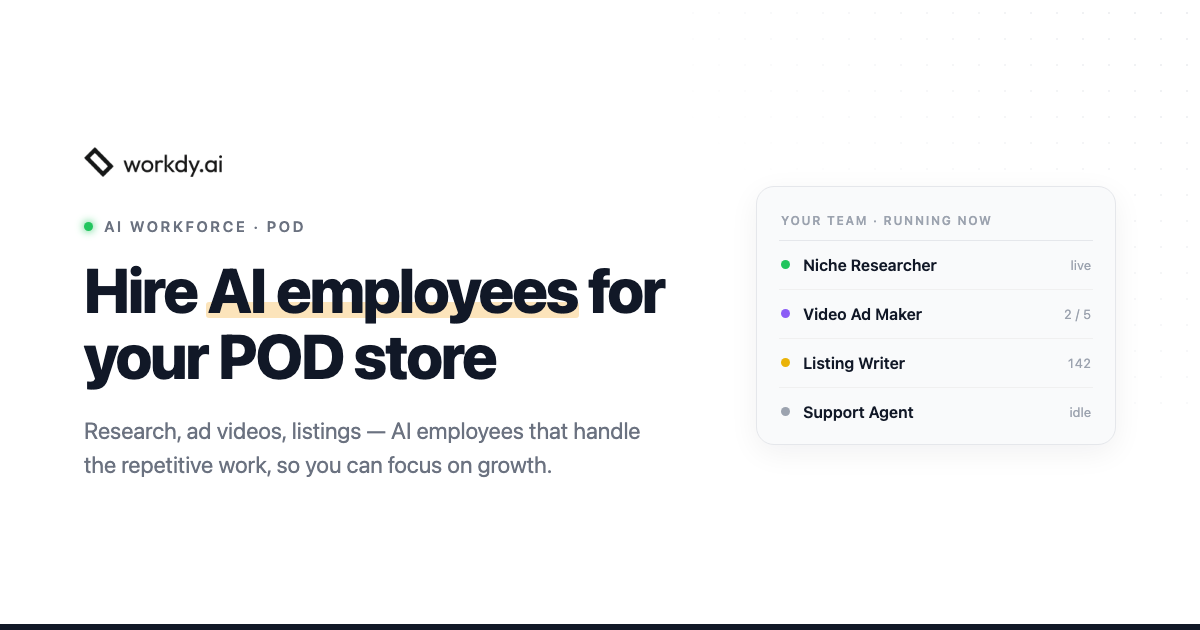
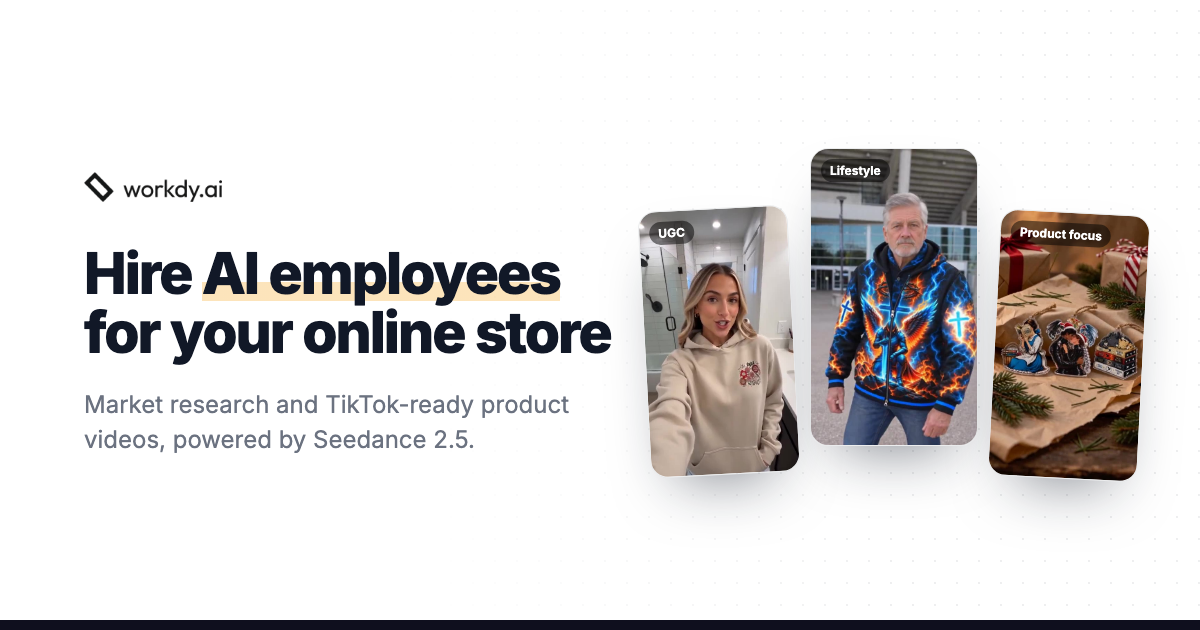
fix(landing): review pass — real OG image, honest claims, mobile hero, a11y, console noise
- Re-render og.png: old one still said "Hire AI employees for your POD store"
- Replace "Run and optimize ads" (no such template/job) with the real creative-scorecard pipeline
- Swap the fake ticking "videos drafted today" counter for a spec chip
- Chat demo: drop the contradictory "Lark coming soon" chip, rename to Workdy Agent
- Remove eyebrow pill tags and the "Made with" badge; drop SectionHeading eyebrow prop
- Hero: typed word ends its own line so no gap on mobile; "See the pipelines" CTA
- State the calculator assumption; mobile-friendly Seedance model cards
- Duplicate marquee cards out of tab order; nav button never wraps
- Fix <circle> cx/cy "undefined" console spam by animating x/y instead of cx/cy

Changed region(s): [[0.0617, 0.2111, 0.9558, 0.8143], [0.0, 0.9651, 1.0, 0.9952]]

diff --git a/src/components/sections/HeroVisual.tsx b/src/components/sections/HeroVisual.tsx
@@ -2,7 +2,7 @@
 
 import { useEffect, useState } from "react";
 import { motion, AnimatePresence, useReducedMotion } from "framer-motion";
-import { ImageIcon, Sparkles, Play, TrendingUp } from "lucide-react";
+import { ImageIcon, Sparkles, Play } from "lucide-react";
 
 const EASE = [0.16, 1, 0.3, 1] as const;
 
@@ -103,7 +103,7 @@ export function HeroVisual() {
           <span className="size-2.5 rounded-full bg-dot-processing/70" />
           <span className="size-2.5 rounded-full bg-dot-ready/70" />
           <span className="ml-3 rounded-md bg-base px-2.5 py-1 font-mono text-[10.5px] tracking-wide text-ink-faint ring-1 ring-line">
-            workdy · pod-sales-video.flow
+            workdy · product-video.flow
           </span>
           <span className="ml-auto hidden items-center gap-1.5 rounded-md bg-dot-ready/10 px-2 py-1 text-[10.5px] font-semibold text-green-600 sm:inline-flex">
             <span className="size-1.5 rounded-full bg-dot-ready" />
@@ -156,10 +156,12 @@ export function HeroVisual() {
             {/* traveling packet — node 1 to node 2 */}
             {!reduce && travelingA ? (
               <motion.circle
+                cx={200}
+                cy={100}
                 r={5}
                 fill="var(--color-dot-ready)"
                 initial={{ opacity: 0 }}
-                animate={{ cx: [200, 225], cy: [100, 100], opacity: [0, 1, 1, 0] }}
+                animate={{ x: [0, 25], opacity: [0, 1, 1, 0] }}
                 transition={{ duration: 0.7, ease: "easeInOut" }}
               />
             ) : null}
@@ -167,12 +169,14 @@ export function HeroVisual() {
             {/* traveling packet — node 2 down and across to the video output */}
             {!reduce && travelingB ? (
               <motion.circle
+                cx={310}
+                cy={136}
                 r={5}
                 fill="var(--color-dot-ready)"
                 initial={{ opacity: 0 }}
                 animate={{
-                  cx: [310, 310, 355],
-                  cy: [136, 270, 270],
+                  x: [0, 0, 0, 45, 45],
+                  y: [0, 0, 134, 134, 134],
                   opacity: [0, 1, 1, 1, 0],
                 }}
                 transition={{ duration: 0.9, ease: "easeInOut", times: [0, 0.05, 0.55, 0.9, 1] }}
@@ -339,7 +343,7 @@ export function HeroVisual() {
             transition={{ duration: 0.6, ease: EASE }}
           />
 
-          {/* output node — rendered POD sales video */}
+          {/* output node — rendered product video */}
           <motion.div
             initial={reduce ? { opacity: 0 } : { opacity: 0, y: 8, scale: 0.94 }}
             animate={reduce ? { opacity: 1, y: 0, scale: 1 } : { opacity: 1, y: 0, scale: 1 }}
@@ -517,13 +521,13 @@ export function HeroVisual() {
         className="animate-float-slow absolute -top-5 -right-3 flex items-center gap-2 rounded-xl border border-line bg-base/95 px-3 py-2 shadow-[0_16px_40px_-18px_rgba(17,24,39,0.4)] backdrop-blur sm:-right-6"
       >
         <span className="flex size-7 items-center justify-center rounded-lg bg-cat-green/10 text-green-600">
-          <TrendingUp size={15} strokeWidth={2.2} />
+          <Play size={13} strokeWidth={2.4} fill="currentColor" />
         </span>
         <div className="leading-tight">
           <div className="text-[13px] font-bold tabular text-ink">
-            <LiveCount />
+            9:16 · 15s
           </div>
-          <div className="text-[9.5px] text-ink-faint">videos drafted today</div>
+          <div className="text-[9.5px] text-ink-faint">TikTok-ready video</div>
         </div>
       </motion.div>
     </div>
@@ -550,17 +554,4 @@ function FloatingRoster() {
       ))}
     </div>
   );
-}
-
-function LiveCount() {
-  const [n, setN] = useState(142);
-  const reduce = useReducedMotion();
-
-  useEffect(() => {
-    if (reduce) return;
-    const id = setInterval(() => setN((v) => v + 1 + Math.floor(Math.random() * 2)), 3200);
-    return () => clearInterval(id);
-  }, [reduce]);
-
-  return <>{n}</>;
 }

diff --git a/src/components/sections/SeedanceShowcase.tsx b/src/components/sections/SeedanceShowcase.tsx
@@ -47,11 +47,7 @@ export function SeedanceShowcase() {
 
       <div className="relative mx-auto max-w-6xl px-6 pt-20 sm:px-8 sm:pt-24">
         <Reveal className="mx-auto max-w-2xl text-center">
-          <span className="inline-flex items-center gap-2 rounded-full border border-white/15 bg-white/5 px-3 py-1.5 text-[11px] font-semibold tracking-wide text-white/75 uppercase backdrop-blur">
-            <span className="size-1.5 rounded-full bg-cat-purple" />
-            Made with Workdy × Seedance
-          </span>
-          <h2 className="mt-5 text-[clamp(1.9rem,4.4vw,2.9rem)] leading-[1.08] font-bold tracking-tight text-balance">
+          <h2 className="text-[clamp(1.9rem,4.4vw,2.9rem)] leading-[1.08] font-bold tracking-tight text-balance">
             Product videos that look shot, not generated
           </h2>
           <p className="mx-auto mt-4 max-w-xl text-[15.5px] leading-relaxed text-pretty text-white/65">
@@ -81,6 +77,7 @@ export function SeedanceShowcase() {
               return (
                 <li key={key} className="snap-start" aria-hidden={index >= CLIPS.length ? true : undefined}>
                   <VideoCard
+                    focusable={index < CLIPS.length}
                     clip={clip}
                     autoPlay={!reduce}
                     withSound={soundKey === key}
@@ -94,19 +91,13 @@ export function SeedanceShowcase() {
       </Reveal>
 
       <div className="relative mx-auto max-w-6xl px-6 pt-14 pb-20 text-center sm:px-8 sm:pb-24">
-        <Reveal>
-          <p className="text-[13px] font-semibold tracking-wide text-white/45 uppercase">
-            Powered by the Seedance family
-          </p>
-        </Reveal>
-
-        <Stagger className="mx-auto mt-5 grid max-w-4xl grid-cols-2 gap-3 lg:grid-cols-4">
+        <Stagger className="mx-auto grid max-w-4xl grid-cols-2 gap-3 lg:grid-cols-4">
           {MODELS.map((model) => {
             const Icon = model.icon;
             return (
               <StaggerItem key={model.name}>
                 <div
-                  className={`flex h-full items-center gap-3 rounded-2xl border px-4 py-3.5 text-left transition-colors duration-200 hover:border-white/25 ${
+                  className={`flex h-full flex-col items-start gap-2.5 rounded-2xl border px-4 py-3.5 sm:flex-row sm:items-center sm:gap-3 text-left transition-colors duration-200 hover:border-white/25 ${
                     model.isNew
                       ? "border-cat-purple/45 bg-[linear-gradient(160deg,rgba(139,92,246,0.2),rgba(139,92,246,0.05))] shadow-[0_0_36px_-14px_rgba(139,92,246,0.7)]"
                       : "border-white/10 bg-dark-card"
@@ -148,9 +139,10 @@ type VideoCardProps = {
   autoPlay: boolean;
   withSound: boolean;
   onToggleSound: () => void;
+  focusable: boolean;
 };
 
-function VideoCard({ clip, autoPlay, withSound, onToggleSound }: VideoCardProps) {
+function VideoCard({ clip, autoPlay, withSound, onToggleSound, focusable }: VideoCardProps) {
   const ref = useRef<HTMLVideoElement>(null);
   const [near, setNear] = useState(false);
   const [visible, setVisible] = useState(false);
@@ -183,6 +175,7 @@ function VideoCard({ clip, autoPlay, withSound, onToggleSound }: VideoCardProps)
   return (
     <button
       type="button"
+      tabIndex={focusable ? undefined : -1}
       onClick={onToggleSound}
       aria-label={`${clip.product} — ${withSound ? "mute" : "play with sound"}`}
       className={`group relative block aspect-[9/16] w-[168px] overflow-hidden rounded-2xl bg-dark-card text-left ring-1 transition-[transform,box-shadow] duration-300 hover:-translate-y-1 sm:w-[212px] ${

diff --git a/src/components/sections/Hero.tsx b/src/components/sections/Hero.tsx
@@ -19,20 +19,13 @@ export function Hero() {
 
       <div className="mx-auto grid max-w-6xl items-center gap-12 px-6 py-16 sm:px-8 lg:grid-cols-[1.05fr_0.95fr] lg:py-24">
         <div>
-          <span className="animate-fade-in inline-flex items-center gap-2 rounded-full border border-line bg-base/70 px-3 py-1.5 text-xs font-semibold tracking-wide text-ink-soft uppercase backdrop-blur">
-            <span className="relative flex size-1.5">
-              <span className="absolute inline-flex size-full animate-[pulse-ring_1.8s_ease-out_infinite] rounded-full bg-dot-ready" />
-              <span className="relative inline-flex size-1.5 rounded-full bg-dot-ready" />
-            </span>
-            AI workforce · E-commerce
-          </span>
-
           <h1
-            className="animate-fade-in mt-5 text-[clamp(2.25rem,5.2vw,3.75rem)] leading-[1.05] font-bold tracking-tight text-balance text-ink"
+            className="animate-fade-in text-[clamp(2rem,5.2vw,3.75rem)] leading-[1.05] font-bold tracking-tight text-balance text-ink"
             style={{ animationDelay: "0.08s" }}
           >
             Hire AI{" "}
-            <TypingWord words={["employees", "researchers", "creators", "marketers", "editors"]} />{" "}
+            <TypingWord words={["employees", "researchers", "creators", "marketers", "editors"]} />
+            <br />
             for your online store
           </h1>
 
@@ -54,7 +47,7 @@ export function Hero() {
             </Button>
             <Button href="#pipelines" variant="secondary">
               <PlayCircle size={17} strokeWidth={2} />
-              See a real workflow run
+              See the pipelines
             </Button>
           </div>
 

diff --git a/src/components/sections/ChatDemo.tsx b/src/components/sections/ChatDemo.tsx
@@ -4,7 +4,7 @@ import { useEffect, useState } from "react";
 import Image from "next/image";
 import { motion, AnimatePresence, useReducedMotion } from "framer-motion";
 import { SiTelegram } from "react-icons/si";
-import { Send, Sparkles } from "lucide-react";
+import { Send } from "lucide-react";
 
 const EASE = [0.16, 1, 0.3, 1] as const;
 
@@ -57,7 +57,7 @@ export function ChatDemo() {
             <span className="absolute -right-0.5 -bottom-0.5 size-2.5 rounded-full border-2 border-base bg-dot-ready" />
           </span>
           <div className="min-w-0">
-            <div className="truncate text-[13.5px] font-bold text-ink">Support Agent</div>
+            <div className="truncate text-[13.5px] font-bold text-ink">Workdy Agent</div>
             <div className="text-[11px] text-ink-faint">AI employee · online</div>
           </div>
           <span className="ml-auto flex items-center gap-1.5 rounded-full bg-[#26A5E4]/10 px-2.5 py-1 text-[11px] font-semibold text-[#1b8ec9]">
@@ -125,12 +125,6 @@ export function ChatDemo() {
             <Send size={15} strokeWidth={2.2} />
           </span>
         </div>
-      </div>
-
-      {/* coming soon chip — Lark (per handoff: not yet live) */}
-      <div className="animate-float-slow absolute -bottom-4 -left-3 flex items-center gap-1.5 rounded-full border border-line bg-base/95 px-3 py-1.5 text-[11px] font-medium text-ink-soft shadow-[0_12px_30px_-14px_rgba(17,24,39,0.4)] backdrop-blur sm:-left-6">
-        <Sparkles size={12} className="text-ink-faint" />
-        Lark &amp; web widget — coming soon
       </div>
     </div>
   );

diff --git a/src/components/ui/SectionHeading.tsx b/src/components/ui/SectionHeading.tsx
@@ -1,19 +1,7 @@
 import type { ReactNode } from "react";
 import { Reveal } from "./Reveal";
 
-type Accent = "ink" | "blue" | "purple" | "amber" | "green";
-
-const eyebrowAccent: Record<Accent, string> = {
-  ink: "text-ink-soft ring-line",
-  blue: "text-cat-blue ring-cat-blue/20",
-  purple: "text-cat-purple ring-cat-purple/20",
-  amber: "text-amber-600 ring-cat-amber/25",
-  green: "text-green-600 ring-cat-green/20",
-};
-
 type SectionHeadingProps = {
-  eyebrow?: string;
-  eyebrowAccent?: Accent;
   title: ReactNode;
   description?: ReactNode;
   align?: "center" | "left";
@@ -21,8 +9,6 @@ type SectionHeadingProps = {
 };
 
 export function SectionHeading({
-  eyebrow,
-  eyebrowAccent: accent = "ink",
   title,
   description,
   align = "center",
@@ -32,17 +18,8 @@ export function SectionHeading({
     <Reveal
       className={`${align === "center" ? "mx-auto max-w-2xl text-center" : "max-w-2xl"} ${className}`}
     >
-      {eyebrow ? (
-        <span
-          className={`inline-flex items-center rounded-full bg-base px-3 py-1 text-[11px] font-semibold tracking-wide uppercase ring-1 ring-inset ${eyebrowAccent[accent]}`}
-        >
-          {eyebrow}
-        </span>
-      ) : null}
       <h2
-        className={`text-[clamp(1.75rem,4vw,2.5rem)] leading-tight font-bold tracking-tight text-balance text-ink ${
-          eyebrow ? "mt-4" : ""
-        }`}
+        className={`text-[clamp(1.75rem,4vw,2.5rem)] leading-tight font-bold tracking-tight text-balance text-ink`}
       >
         {title}
       </h2>

diff --git a/src/components/ui/Button.tsx b/src/components/ui/Button.tsx
@@ -12,7 +12,7 @@ type ButtonProps = {
 // Hover: lift + soft shadow, a light sweep across the face, and a trailing arrow that nudges right.
 // All motion is disabled for users who prefer reduced motion.
 const base =
-  "group relative inline-flex items-center justify-center gap-2 overflow-hidden rounded-[9px] font-semibold transition-[transform,box-shadow,background-color,border-color] duration-200 ease-out hover:-translate-y-0.5 active:translate-y-0 active:scale-[0.98] " +
+  "group relative inline-flex items-center justify-center gap-2 overflow-hidden whitespace-nowrap rounded-[9px] font-semibold transition-[transform,box-shadow,background-color,border-color] duration-200 ease-out hover:-translate-y-0.5 active:translate-y-0 active:scale-[0.98] " +
   "before:pointer-events-none before:absolute before:inset-y-0 before:-left-1/3 before:w-1/3 before:-skew-x-12 before:-translate-x-full before:transition-transform before:duration-700 before:ease-out hover:before:translate-x-[450%] " +
   "motion-reduce:transition-none motion-reduce:hover:translate-y-0 motion-reduce:before:hidden";
 

diff --git a/src/components/sections/FinalCta.tsx b/src/components/sections/FinalCta.tsx
@@ -15,15 +15,8 @@ export function FinalCta() {
       />
 
       <div className="relative mx-auto max-w-3xl px-6 py-24 text-center sm:px-8 sm:py-28">
-        <Reveal>
-          <span className="inline-flex items-center gap-2 rounded-full border border-white/15 bg-white/5 px-3 py-1.5 text-xs font-semibold tracking-wide text-white/70 uppercase backdrop-blur">
-            <span className="size-1.5 rounded-full bg-dot-ready" />
-            Ready when you are
-          </span>
-        </Reveal>
-
         <Reveal delay={0.08}>
-          <h2 className="mt-6 text-[clamp(2rem,5vw,3.25rem)] leading-[1.08] font-bold tracking-tight text-balance">
+          <h2 className="text-[clamp(2rem,5vw,3.25rem)] leading-[1.08] font-bold tracking-tight text-balance">
             Hire your first AI employee today
           </h2>
         </Reveal>

diff --git a/src/components/sections/IntegrationsGrid.tsx b/src/components/sections/IntegrationsGrid.tsx
@@ -26,10 +26,7 @@ export function IntegrationsGrid() {
         {/* left: copy + real brand logos */}
         <div>
           <Reveal>
-            <span className="inline-flex items-center rounded-full bg-base px-3 py-1 text-[11px] font-semibold tracking-wide text-ink-soft uppercase ring-1 ring-inset ring-line">
-              Integrations
-            </span>
-            <h2 className="mt-4 text-[clamp(1.75rem,4vw,2.5rem)] leading-tight font-bold tracking-tight text-balance text-ink">
+            <h2 className="text-[clamp(1.75rem,4vw,2.5rem)] leading-tight font-bold tracking-tight text-balance text-ink">
               Connects with the tools you already use
             </h2>
             <p className="mt-4 max-w-md text-[15.5px] leading-relaxed text-ink-soft">

diff --git a/src/components/sections/FAQ.tsx b/src/components/sections/FAQ.tsx
@@ -51,10 +51,7 @@ export function FAQ() {
       <div className="grid gap-10 lg:grid-cols-[0.8fr_1.2fr] lg:gap-16">
         <Reveal>
           <div className="lg:sticky lg:top-28">
-            <span className="inline-flex items-center rounded-full bg-base px-3 py-1 text-[11px] font-semibold tracking-wide text-ink-soft uppercase ring-1 ring-inset ring-line">
-              FAQ
-            </span>
-            <h2 className="mt-4 text-[clamp(1.75rem,4vw,2.5rem)] leading-tight font-bold tracking-tight text-ink">
+            <h2 className="text-[clamp(1.75rem,4vw,2.5rem)] leading-tight font-bold tracking-tight text-ink">
               Frequently asked questions
             </h2>
             <p className="mt-4 text-[15px] leading-relaxed text-ink-soft">

diff --git a/src/components/ui/PipelineShowcase.tsx b/src/components/ui/PipelineShowcase.tsx
@@ -76,12 +76,12 @@ const PIPELINES: Pipeline[] = [
   },
   {
     category: "Ads",
-    title: "Run and optimize ads",
-    description: "Sync campaign performance and get an automatic daily report.",
+    title: "Score a video before you spend",
+    description: "Paste a video link — Workdy compares it with ads that already spent real money in your niche and shows where yours falls behind.",
     steps: [
-      { label: "TikTok Campaigns", icon: Megaphone },
-      { label: "Performance Sync", icon: BarChart3 },
-      { label: "Report", icon: FileText },
+      { label: "Your Video", icon: Video },
+      { label: "Match Real Ads", icon: BarChart3 },
+      { label: "Scorecard", icon: FileText },
     ],
   },
 ];

diff --git a/src/components/sections/UseCasePipelines.tsx b/src/components/sections/UseCasePipelines.tsx
@@ -7,9 +7,8 @@ export function UseCasePipelines() {
   return (
     <Section id="pipelines" bg="subtle">
       <SectionHeading
-        eyebrow="Pipelines"
         title="Pipelines built for online sellers"
-        description="The research and video work that eats your day — ready-made pipelines, every step a real tool inside Workdy. Every account starts with them, no setup required."
+        description="The research and video work that eats your day — ready-made pipelines, every step a real tool inside Workdy. Start from a template, no setup required."
       />
 
       <PipelineShowcase href={siteConfig.appUrl} />

diff --git a/src/components/sections/CanvasDemo.tsx b/src/components/sections/CanvasDemo.tsx
@@ -10,8 +10,8 @@ const PLAN_STEPS = [
   { icon: LogIn, label: "Keyword input", type: "input" as const },
   { icon: Globe, label: "Etsy Search", type: "http" as const },
   { icon: Cog, label: "Rank top 5", type: "code" as const },
-  { icon: Sparkles, label: "AI redesign", type: "llm" as const },
-  { icon: FileOutput, label: "R&D report", type: "output" as const },
+  { icon: Sparkles, label: "AI analysis", type: "llm" as const },
+  { icon: FileOutput, label: "Product report", type: "output" as const },
 ];
 
 const TYPE_META = {
